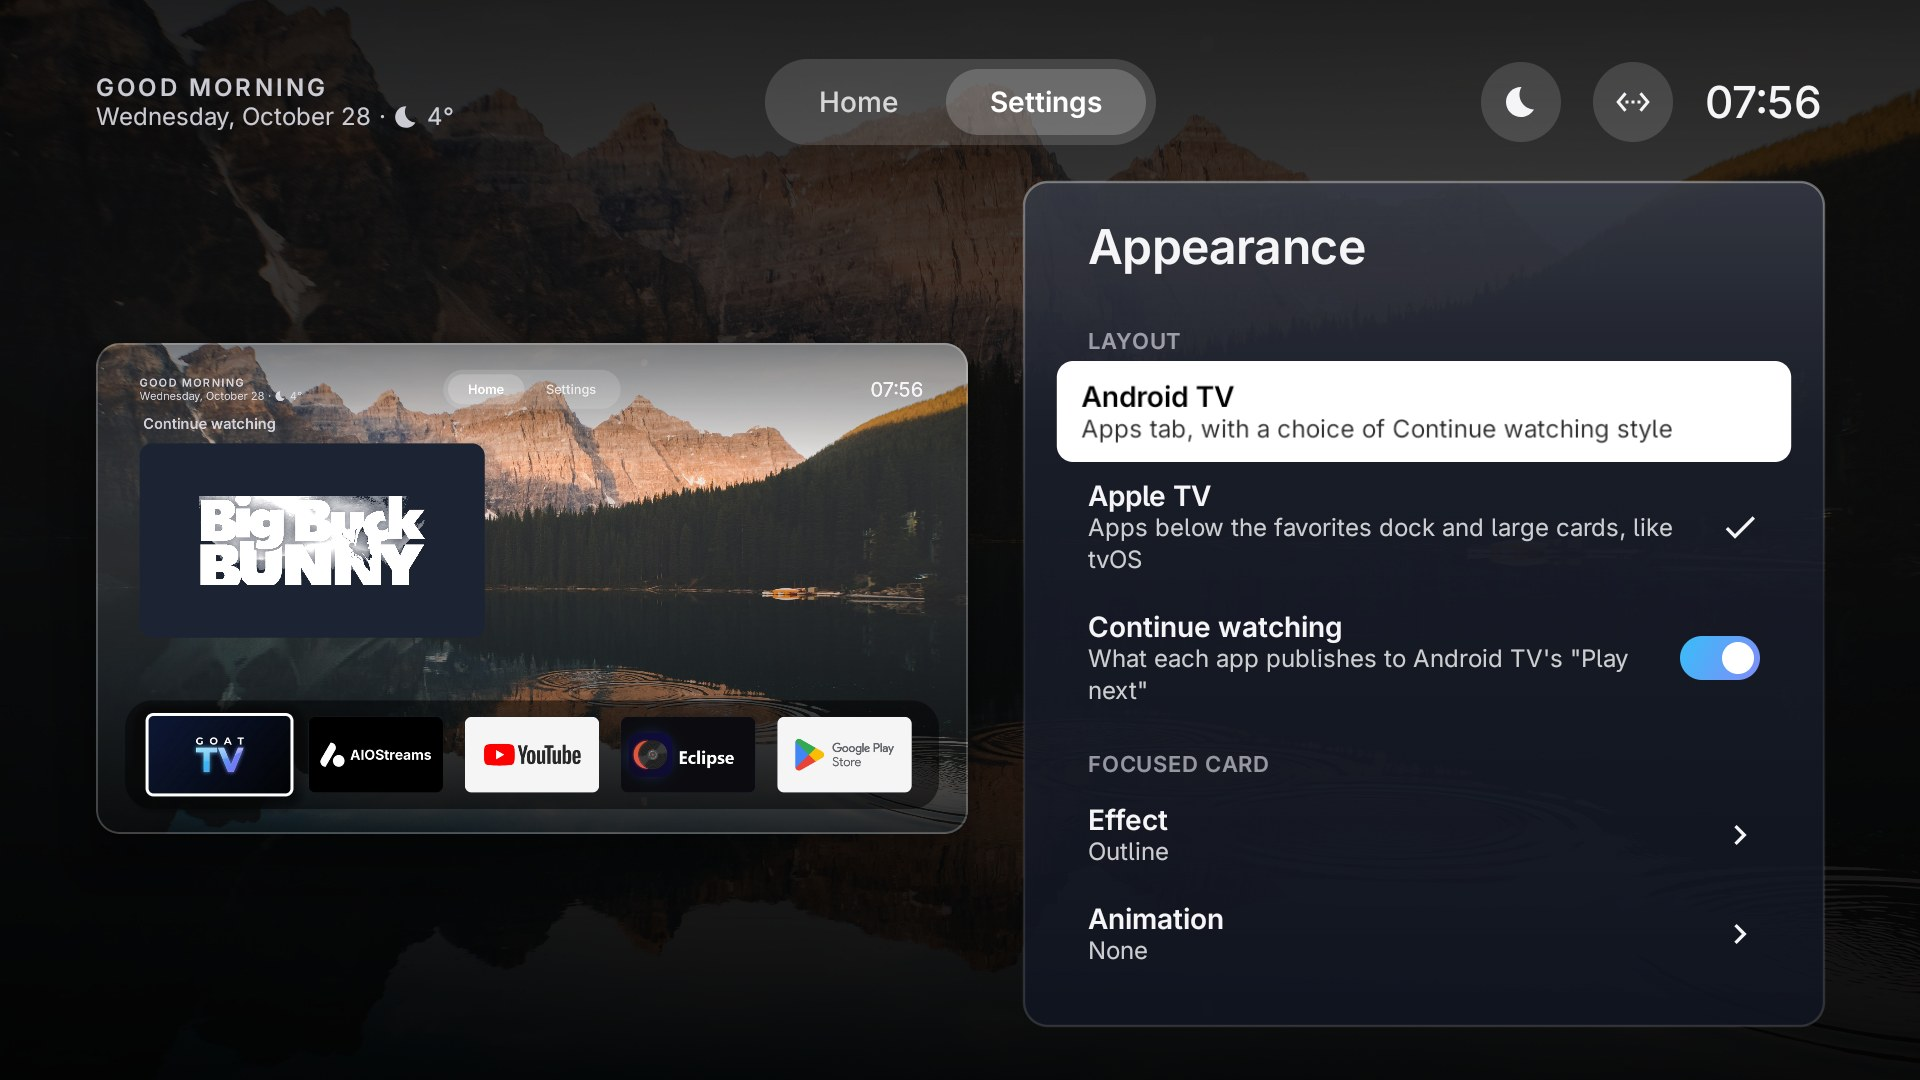
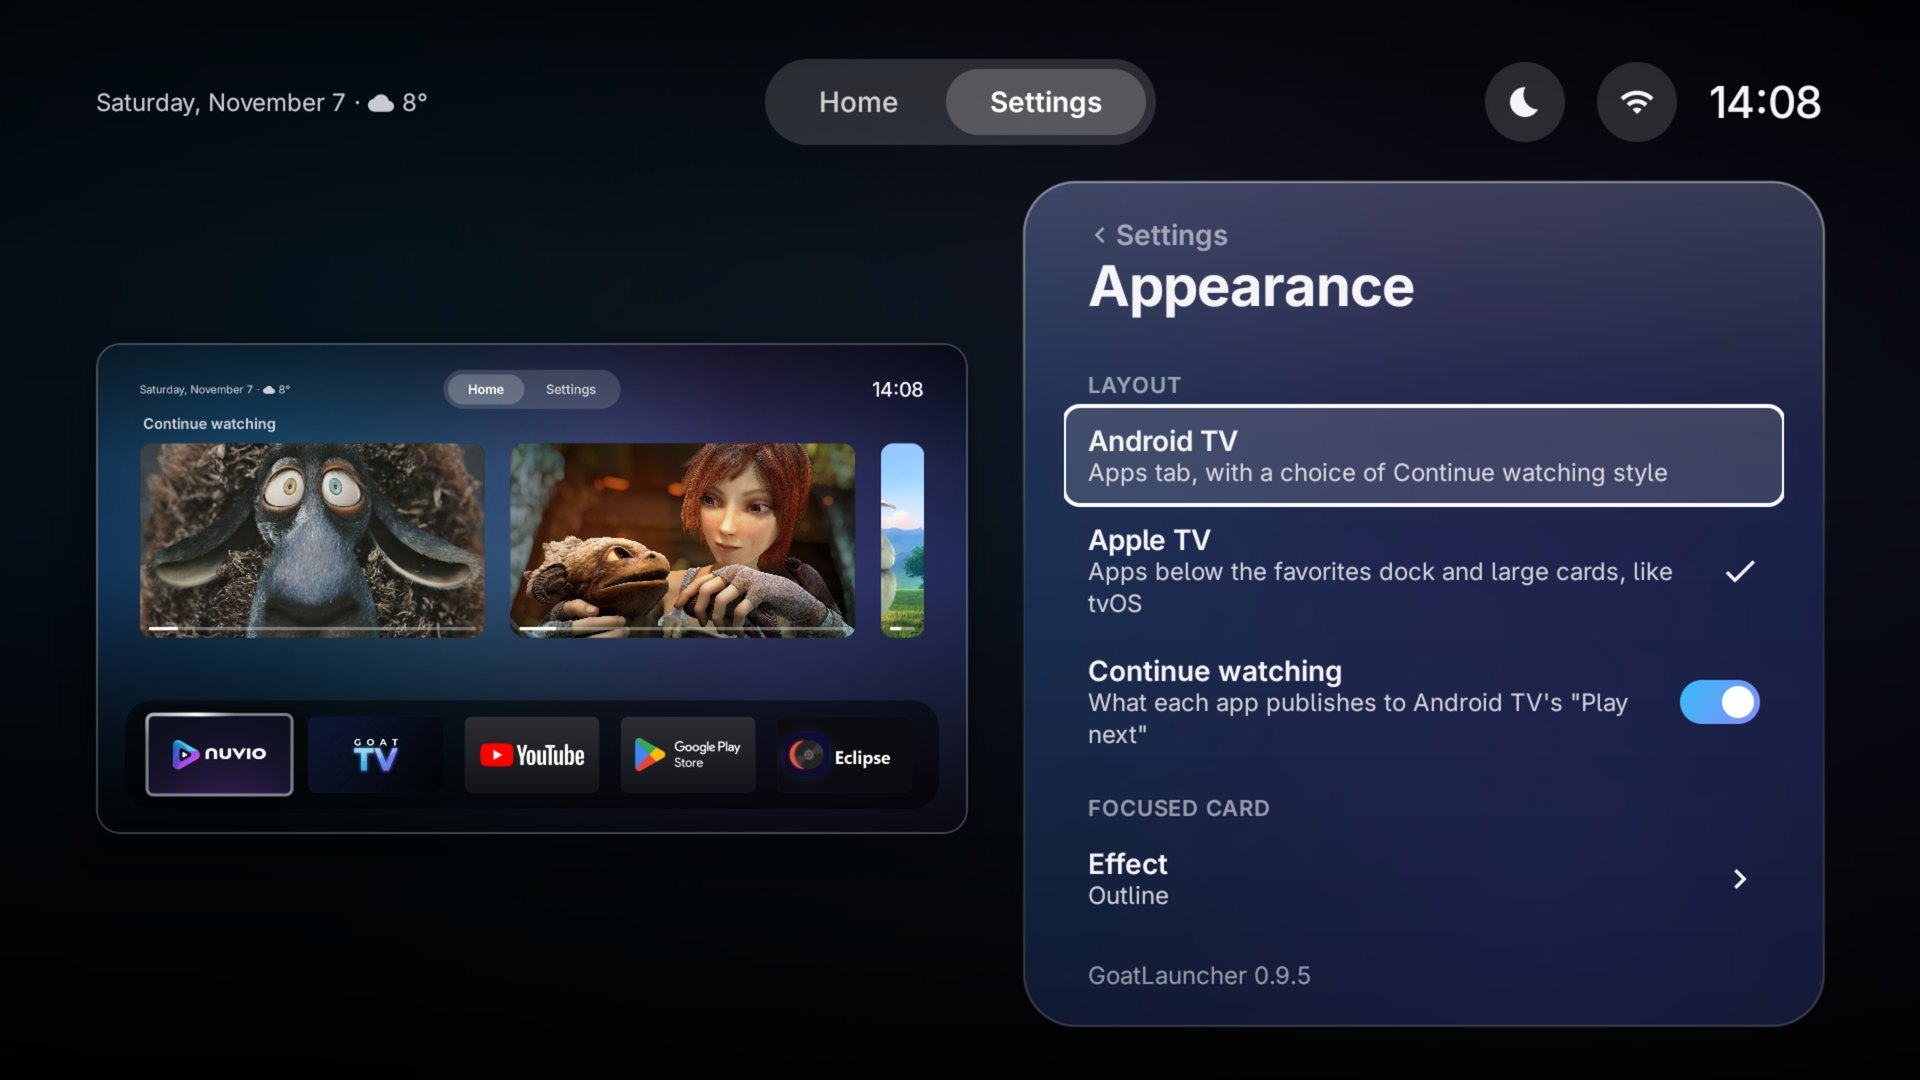
README: new screenshots of the home styles and Settings
Taken on a TV with open movies from the Blender Foundation in Continue watching:
Spotlight, carousel, tvOS day and night, and the redesigned Settings.

diff --git a/README.md b/README.md
@@ -6,12 +6,14 @@ A home screen for Android TV and Google TV.
 
 | | |
 |---|---|
-| ![Home, Android TV style, Spotlight](docs/screenshots/home-android-tv.jpg) | ![Home, Android TV style, row of cards](docs/screenshots/home-android-tv-cards.jpg) |
+| ![Home, Android TV style, Spotlight](docs/screenshots/home-android-tv.jpg) | ![Home, Android TV style, carousel](docs/screenshots/home-android-tv-carousel.jpg) |
 | ![Home, tvOS style](docs/screenshots/home-tvos-day.jpg) | ![Home at night](docs/screenshots/home-tvos-night.jpg) |
+| ![Settings](docs/screenshots/settings.jpg) | ![Settings, wallpaper](docs/screenshots/settings-wallpaper.jpg) |
 | ![Appearance, Android TV style](docs/screenshots/appearance-android-tv.jpg) | ![Appearance, tvOS style](docs/screenshots/appearance-tvos.jpg) |
 | ![Aurora focus effect](docs/screenshots/effect-aurora.jpg) | ![Floating ring focus effect](docs/screenshots/effect-floating-ring.jpg) |
 
-Wallpapers: CC0 photos from Wikimedia Commons. "Big Buck Bunny" © Blender Foundation, CC BY 3.0.
+Continue watching from Nuvio. "Big Buck Bunny" and "Sintel" © Blender Foundation, CC BY 3.0; "Cosmos Laundromat"
+© Blender Foundation, CC BY 4.0. Focus effect wallpapers: CC0 photos from Wikimedia Commons.
 
 ## Install
 
@@ -29,8 +31,9 @@ Once installed, the launcher finds new versions by itself (Settings → Updates)
 
 ## Features
 
-- Favorite apps, the time and weather, and **Continue watching** from the apps on the TV (row of cards or
-  spotlight), including YouTube with a linked Google account.
+- Favorite apps, the time and weather, and **Continue watching** from the apps on the TV (row of cards,
+  spotlight, spotlight with what's next, apps on the side or carousel), including YouTube with a linked Google
+  account.
 - Two layouts: Android TV style or tvOS style.
 - Hide, rename, reorder and change the icon of any app.
 - Wallpapers: built-in, your own images or a subreddit, darker at night.
